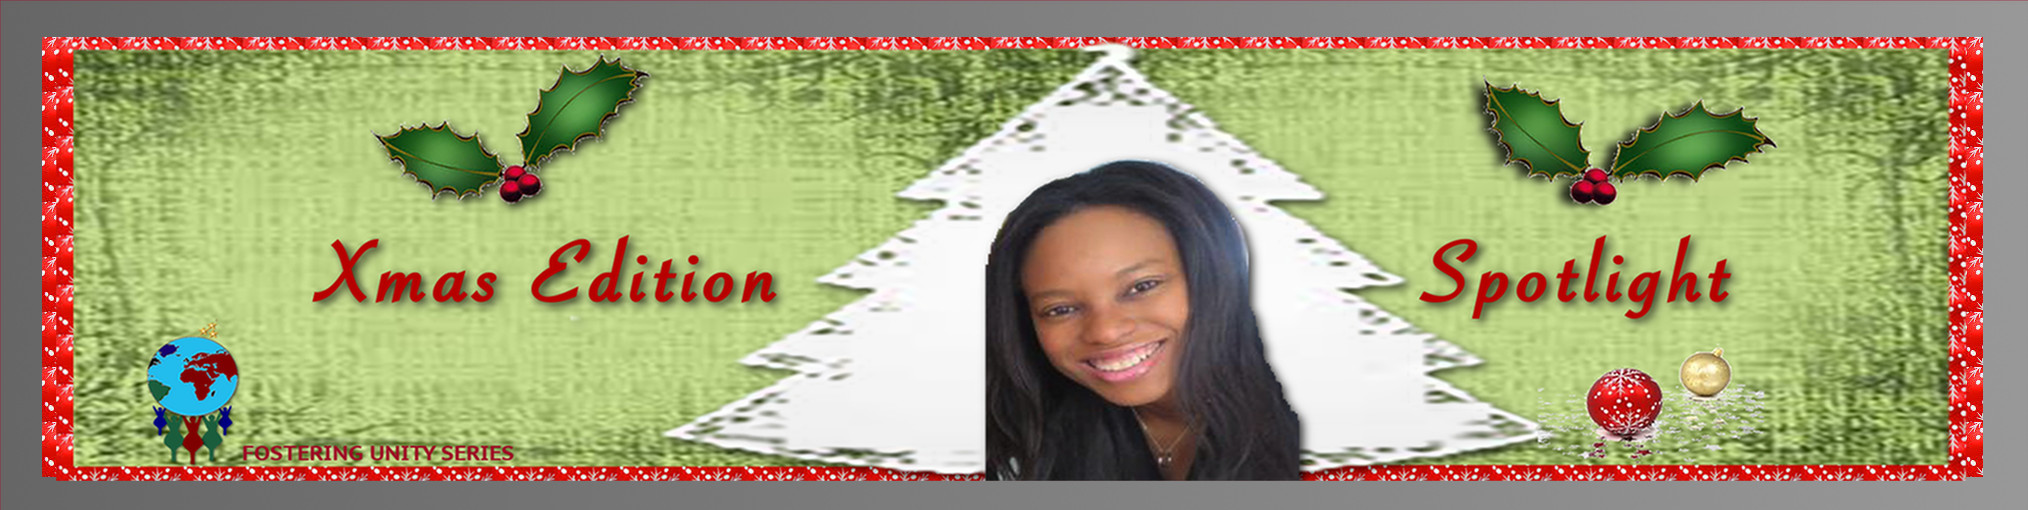
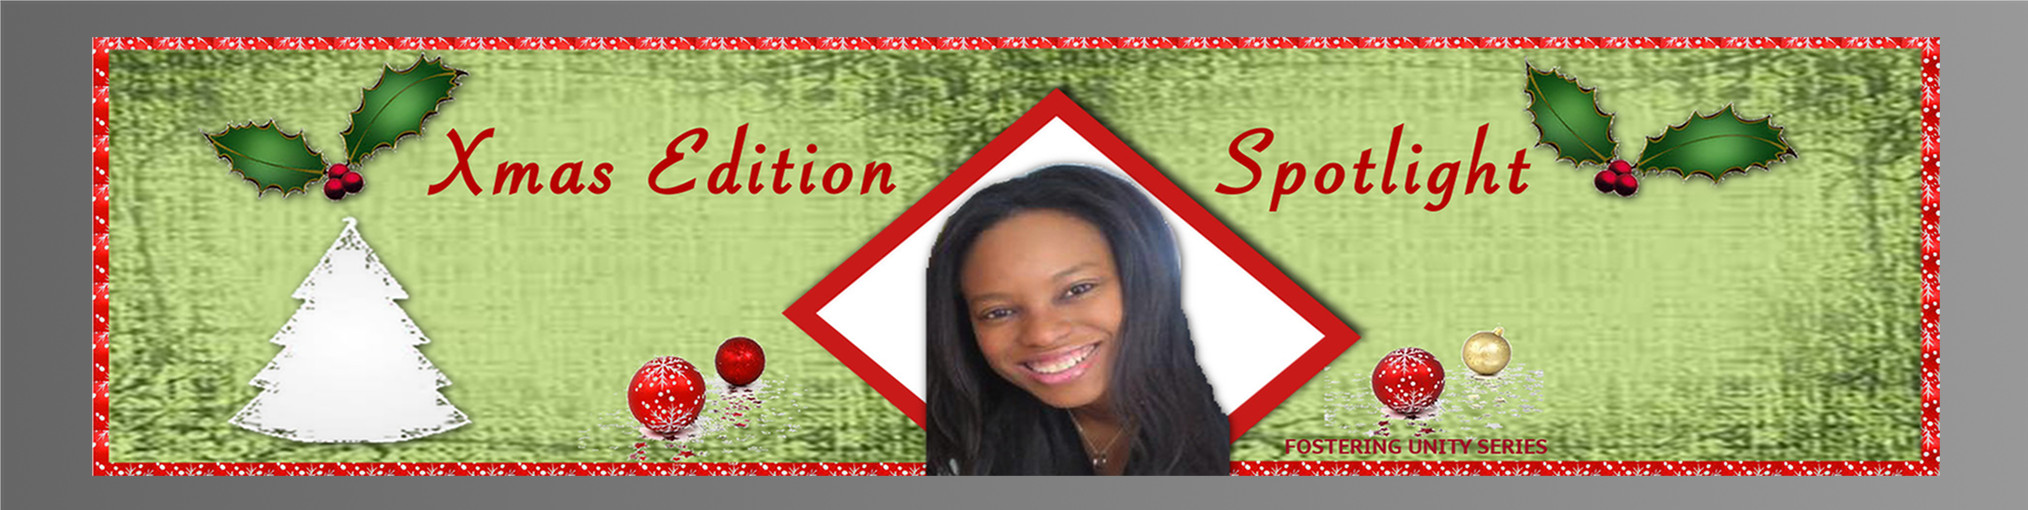
update

diff --git a/_layouts/home.html b/_layouts/home.html
@@ -19,7 +19,7 @@
 <!--    <div class="item"> <a href="{{ site.url }}/reunion2016"><img src="{{ site.url }}/images/reunionhome.jpg" alt="Reunion 2016"></a> </div>   -->
  <div class="item"> <a href="{{ site.url }}/reunion2016"><img src="{{ site.url }}/images/newreunionhome.jpg" alt="Reunion 2016"></a> </div>
   <div class="item"> <a href="{{ site.url }}/reunion2016/reunion-gala-venue-unveiled/"><img src="{{ site.url }}/images/hyatthome.jpg" alt="Reunion 2016"></a> </div>
-  <div class="item"> <a href="{{ site.url }}/spotlight/reunion2016/profile-millie/"><img src="{{ site.url }}/images/milliehome1.jpg" alt="Spotlight Corner"></a></div>
+  <div class="item"> <a href="{{ site.url }}/spotlight/reunion2016/profile-millie/"><img src="{{ site.url }}/images/milliehome2.jpg" alt="Spotlight Corner"></a></div>
   <div class="item"> <a href="{{ site.url }}/openforbusiness"><img src="{{ site.url }}/images/merchshophome.jpg" alt="Shop"></a></div> 
   <div class="item"> <a href="{{ site.url }}/join"><img src="{{ site.url }}/images/joinhomev2.jpg" alt="Join Now"></a>  </div>
 <!--  <div class="item"> <a href="{{ site.url }}/spotlight/reunion2016/profile-noni/"><img src="{{ site.url }}/images/hfdhome.jpg" alt="Happy Founder's Dat"></a></div> 
